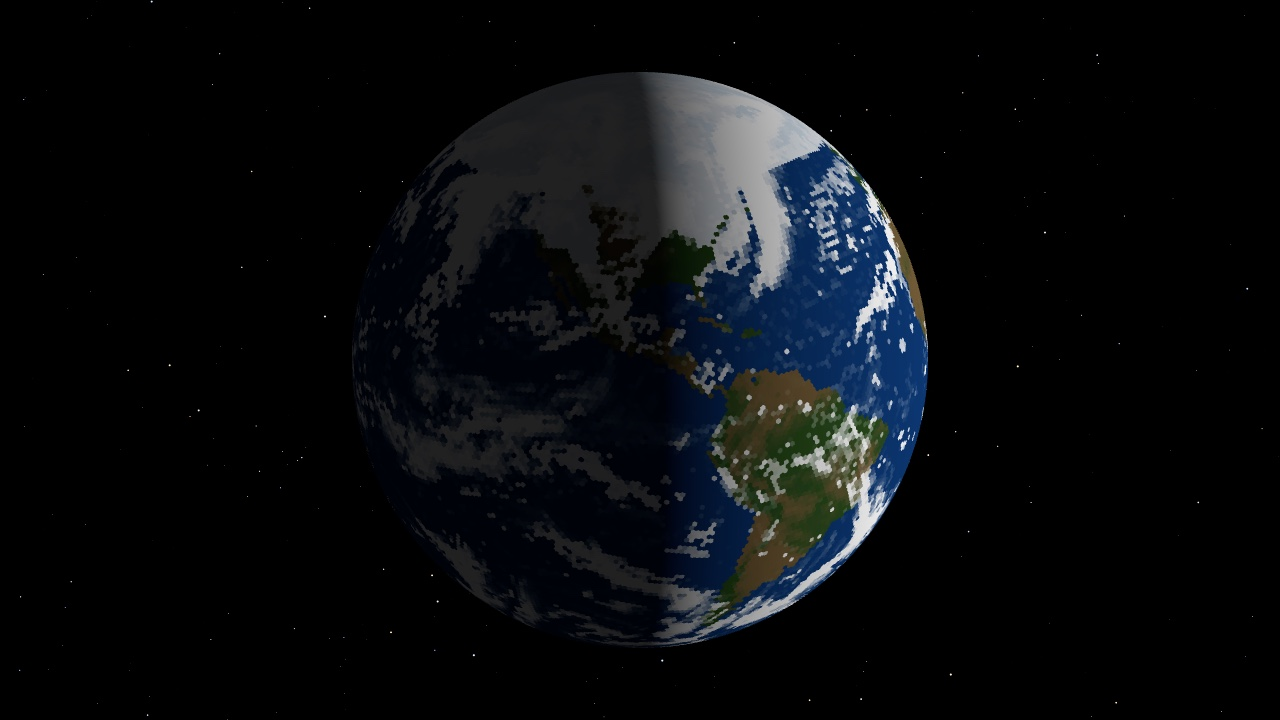
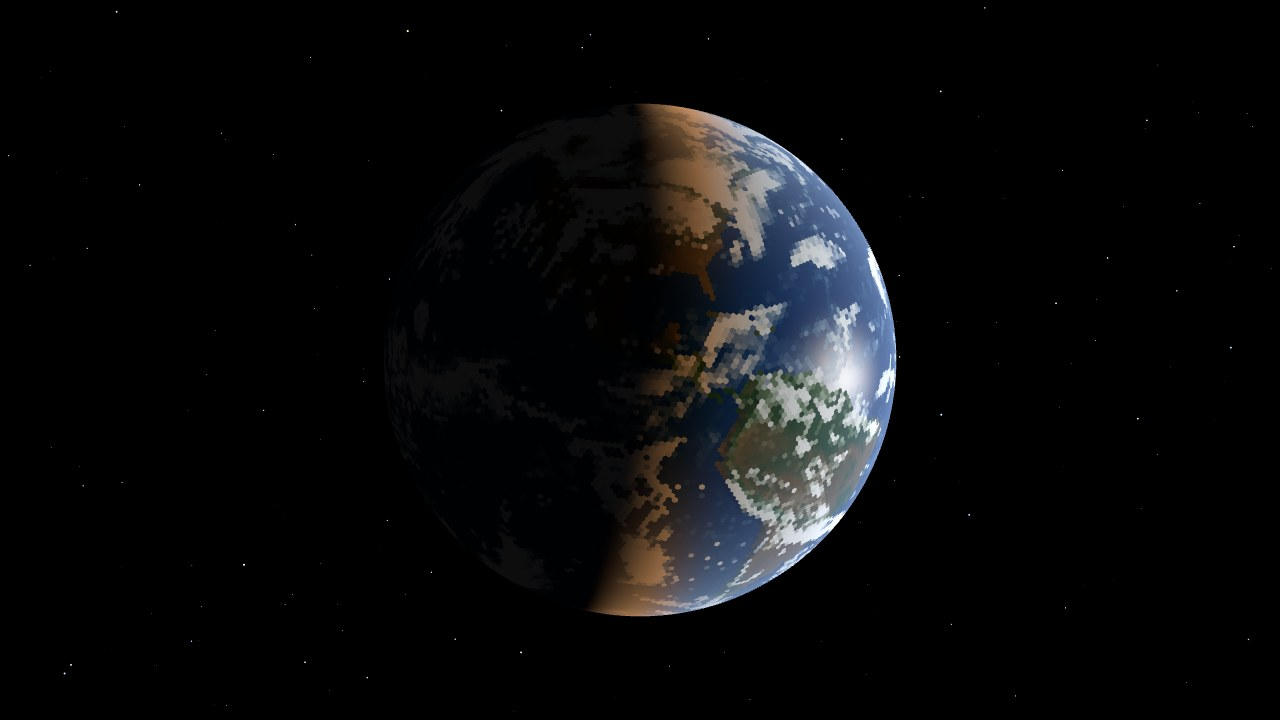
Landing page: screenshots from the six-layer ocean state, links pin the view and lighting

Changed region(s): [[0.2812, 0.0917, 0.75, 0.9167], [0.4375, 0.55, 0.4688, 0.5806]]

diff --git a/index.html b/index.html
@@ -43,19 +43,19 @@
     <h1>WebGCM</h1>
     <p class="tagline">A global climate model that runs in your browser.</p>
 
-    <a class="card hero" href="climate.html?view=space&lat=15&lon=-95&zoom=180">
+    <a class="card hero" href="climate.html?view=space&lat=15&lon=-95&zoom=230&graticule=off&sun=1&ambient=0.004">
       <img src="screenshots/satellite.jpg" width="1280" height="720" alt="The simulated Earth seen from space, with clouds, sea ice and the day–night terminator">
       <div class="body">
         <h2>Climate model</h2>
-        <p>A global climate model running live: a hydrostatic atmosphere with 27 levels on a geodesic C-grid, moist convection and clouds, a wind-driven two-layer ocean, sea ice, snow and soil on real continents with terrain. Every kernel runs on the graphics card through WebGPU. It picks up from a six-year spin-up at 64 subdivisions, about 41,000 cells 110 km across, where you can colour the globe by wind, temperature, pressure, rain, clouds, ice or ocean currents, follow the wind with particles, watch the planet from space, and save snapshots.</p>
+        <p>A global climate model running live: a hydrostatic atmosphere with 27 levels on a geodesic C-grid, moist convection and clouds, a six-layer ocean with a mixed layer over isopycnal layers, sea ice, snow and soil on real continents with terrain. Every kernel runs on the graphics card through WebGPU. It picks up from a two-and-a-half-year spin-up at 64 subdivisions, about 41,000 cells 110 km across, where you can colour the globe by wind, temperature, pressure, rain, clouds, ice or ocean currents, follow the wind with particles, watch the planet from space, and save snapshots.</p>
         <p class="note">Best in a browser with WebGPU (Chrome, Edge or Safari 26). Without it the model falls back to a slower CPU engine. The starting state is a 50 MB download.</p>
         <span class="go">Open the climate model →</span>
       </div>
     </a>
     <div class="strip">
-      <a href="climate.html?overlay=wind&level=250&animate=arrows&isobars=off&graticule=15&projection=sphere&lat=50&lon=-30&zoom=900"><img src="screenshots/jet.jpg" width="960" height="600" alt="Wind speed at 250 hPa on the globe, with the jet streams as bright bands">Jet streams: wind speed at 250 hPa, with wind vectors and the graticule</a>
-      <a href="climate.html?overlay=mslp&isobars=on&isobarStep=1&animate=none&graticule=off&projection=sphere&lat=-58&lon=-85&zoom=700"><img src="screenshots/pressure.jpg" width="960" height="600" alt="A deep low with 1 hPa isobars over the Drake Passage">Sea-level pressure with 1 hPa isobars over the Drake Passage</a>
-      <a href="climate.html?overlay=sst&animate=particles&isobars=off&graticule=off&projection=sphere&lat=22&lon=-72&zoom=600"><img src="screenshots/ocean.jpg" width="960" height="600" alt="Sea surface temperature around the Caribbean with the current particles streaked over a second of motion">Sea surface temperature with the current animation over the Caribbean and the Gulf Stream, a second of motion in one frame</a>
+      <a href="climate.html?view=atmosphere&overlay=wind&level=250&animate=arrows&isobars=off&graticule=15&projection=sphere&lat=50&lon=-30&zoom=900"><img src="screenshots/jet.jpg" width="960" height="600" alt="Wind speed at 250 hPa on the globe, with the jet streams as bright bands">Jet streams: wind speed at 250 hPa, with wind vectors and the graticule</a>
+      <a href="climate.html?view=atmosphere&overlay=mslp&isobars=on&isobarStep=1&animate=none&graticule=off&projection=sphere&lat=-58&lon=-85&zoom=700"><img src="screenshots/pressure.jpg" width="960" height="600" alt="A deep low with 1 hPa isobars over the Drake Passage">Sea-level pressure with 1 hPa isobars over the Drake Passage</a>
+      <a href="climate.html?view=ocean&overlay=sst&animate=particles&isobars=off&graticule=off&projection=sphere&lat=22&lon=-72&zoom=600"><img src="screenshots/ocean.jpg" width="960" height="600" alt="Sea surface temperature around the Caribbean with the current particles">Sea surface temperature with the current animation over the Caribbean and the Gulf Stream</a>
     </div>
 
     <div class="row">

diff --git a/README.md b/README.md
@@ -4,7 +4,7 @@ A global climate model that runs in the browser. The repository keeps the name o
 
 Live at https://gcm.echorelay.net/
 
-- **[Climate model](https://gcm.echorelay.net/climate.html)** — a hydrostatic atmosphere on a geodesic C-grid with moist physics, a two-layer ocean, sea ice, snow and real continents with terrain, integrated on the GPU through WebGPU. Design notes in [docs/c-grid-dynamical-core.md](docs/c-grid-dynamical-core.md), plans in [docs/roadmap.md](docs/roadmap.md).
+- **[Climate model](https://gcm.echorelay.net/climate.html)** — a hydrostatic atmosphere on a geodesic C-grid with moist physics, a six-layer ocean, sea ice, snow and real continents with terrain, integrated on the GPU through WebGPU. Design notes in [docs/c-grid-dynamical-core.md](docs/c-grid-dynamical-core.md), plans in [docs/roadmap.md](docs/roadmap.md).
 - **[Geodesic grid](https://gcm.echorelay.net/grid.html)** — the original geodesic polyhedron viewer (Three.js).
 - **[Synoptic charts](https://gcm.echorelay.net/charts.html)** — pressure-level charts drawn from saved model states.
 
